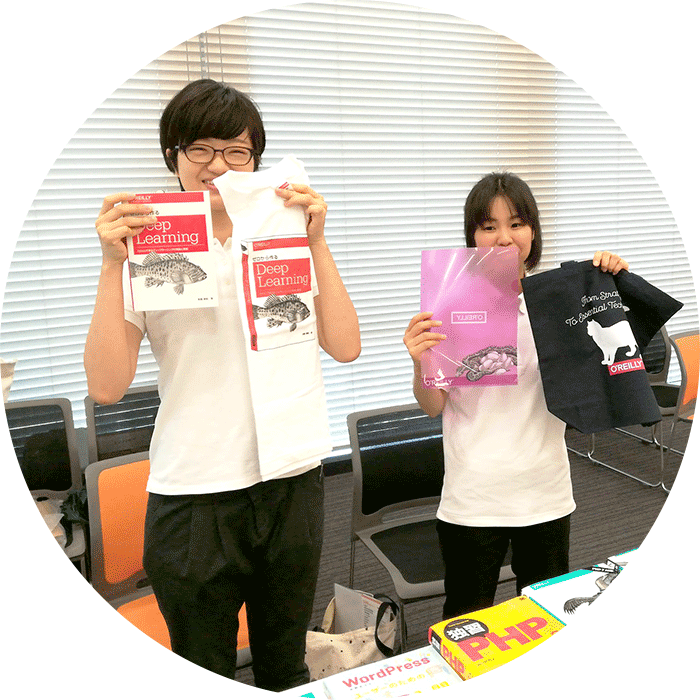
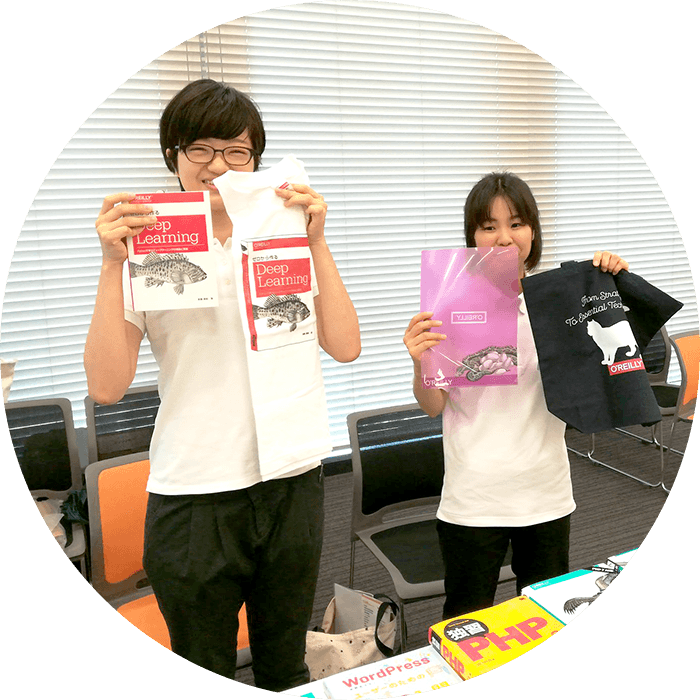
セッションの高さ調整、画像のジャギー修正、sp時セッションdefaultでセッション表示、ナビにLTとunConf追加

diff --git a/public/script.js b/public/script.js
@@ -161,9 +161,6 @@ $(function(){
             $("#secTimetable .secTimetable_sections:eq(0) .section:eq("+i+") h2"),
             $("#secTimetable .secTimetable_sections:eq(1) .section:eq("+i+") h2"),
             $("#secTimetable .secTimetable_sections:eq(2) .section:eq("+i+") h2"),
-            $("#secSession .secSession_sections:eq(0) .section:eq("+i+") h2"),
-            $("#secSession .secSession_sections:eq(1) .section:eq("+i+") h2"),
-            $("#secSession .secSession_sections:eq(2) .section:eq("+i+") h2"),
         ];
         var maxHeight = 0;
         for(var index in $targets){
@@ -178,9 +175,6 @@ $(function(){
             $("#secTimetable .secTimetable_sections:eq(0) .section:eq("+i+") p.show"),
             $("#secTimetable .secTimetable_sections:eq(1) .section:eq("+i+") p.show"),
             $("#secTimetable .secTimetable_sections:eq(2) .section:eq("+i+") p.show"),
-            $("#secSession .secSession_sections:eq(0) .section:eq("+i+") .session_slide"),
-            $("#secSession .secSession_sections:eq(1) .section:eq("+i+") .session_slide"),
-            $("#secSession .secSession_sections:eq(2) .section:eq("+i+") .session_slide"),
         ];
         var maxHeight = 0;
         for(var index in $targets){
@@ -195,6 +189,68 @@ $(function(){
             $("#secTimetable .secTimetable_sections:eq(0) .section:eq("+i+")"),
             $("#secTimetable .secTimetable_sections:eq(1) .section:eq("+i+")"),
             $("#secTimetable .secTimetable_sections:eq(2) .section:eq("+i+")"),
+        ];
+        var maxHeight = 0;
+        for(var index in $targets){
+            $targets[index].css("height","auto");
+            maxHeight = Math.max($targets[index].height(),maxHeight)
+        }
+        for(var index in $targets){
+            if($targets[index].hasClass("time") || $targets[index].hasClass("sectionEmpty"))
+                $targets[index].css("height",maxHeight);
+        }
+    }
+
+
+
+    /**
+     * PC版のみ高さをそろえる。
+     * timetable Sections がcolumn 担っているので、
+     * index をベースに擬似 Row を生成していく。
+     */
+    app.syncHeightReport = (function () {
+        $(window).on('load resize',function () {
+            dealEachRowReport(0)
+            dealEachRowReport(1)
+            dealEachRowReport(2)
+            dealEachRowReport(3)
+            dealEachRowReport(4)
+            dealEachRowReport(5)
+            dealEachRowReport(6)
+            dealEachRowReport(7)
+            dealEachRowReport(8)
+        })
+    }())
+
+    var dealEachRowReport = function(i){
+
+        $targets = [
+            $("#secSession .secSession_sections:eq(0) .section:eq("+i+") h2"),
+            $("#secSession .secSession_sections:eq(1) .section:eq("+i+") h2"),
+            $("#secSession .secSession_sections:eq(2) .section:eq("+i+") h2"),
+        ];
+        var maxHeight = 0;
+        for(var index in $targets){
+            $targets[index].css("height","auto");
+            maxHeight = Math.max($targets[index].height(),maxHeight)
+        }
+        for(var index in $targets){
+            $targets[index].css("height",maxHeight);
+        }
+        $targets = [
+            $("#secSession .secSession_sections:eq(0) .section:eq("+i+") .session_slideBox"),
+            $("#secSession .secSession_sections:eq(1) .section:eq("+i+") .session_slideBox"),
+            $("#secSession .secSession_sections:eq(2) .section:eq("+i+") .session_slideBox"),
+        ];
+        var maxHeight = 0;
+        for(var index in $targets){
+            $targets[index].css("height","auto");
+            maxHeight = Math.max($targets[index].height(),maxHeight)
+        }
+        for(var index in $targets){
+            $targets[index].css("height",maxHeight);
+        }
+        $targets = [
             $("#secSession .secSession_timeline .time:eq("+i+")"),
             $("#secSession .secSession_sections:eq(0) .section:eq("+i+")"),
             $("#secSession .secSession_sections:eq(1) .section:eq("+i+")"),

diff --git a/frontend/assets/scss/reportSec/_secSession.scss b/frontend/assets/scss/reportSec/_secSession.scss
@@ -70,9 +70,11 @@
       font-size: 1.3rem;
       color: $clr-main;
       font-weight: bold;
+      .session_slideBox {
+        margin-top: 20px;
+      }
       .session_slide {
         display: block;
-        margin-top: 20px;
         text-align: center;
         font-size: 0.8rem;
         background-color: $clr-main;
@@ -144,7 +146,7 @@
       }
     }
     .wrap {
-      display: none;
+      display: block;
     }
     .session_img img {
       width: 100%;
